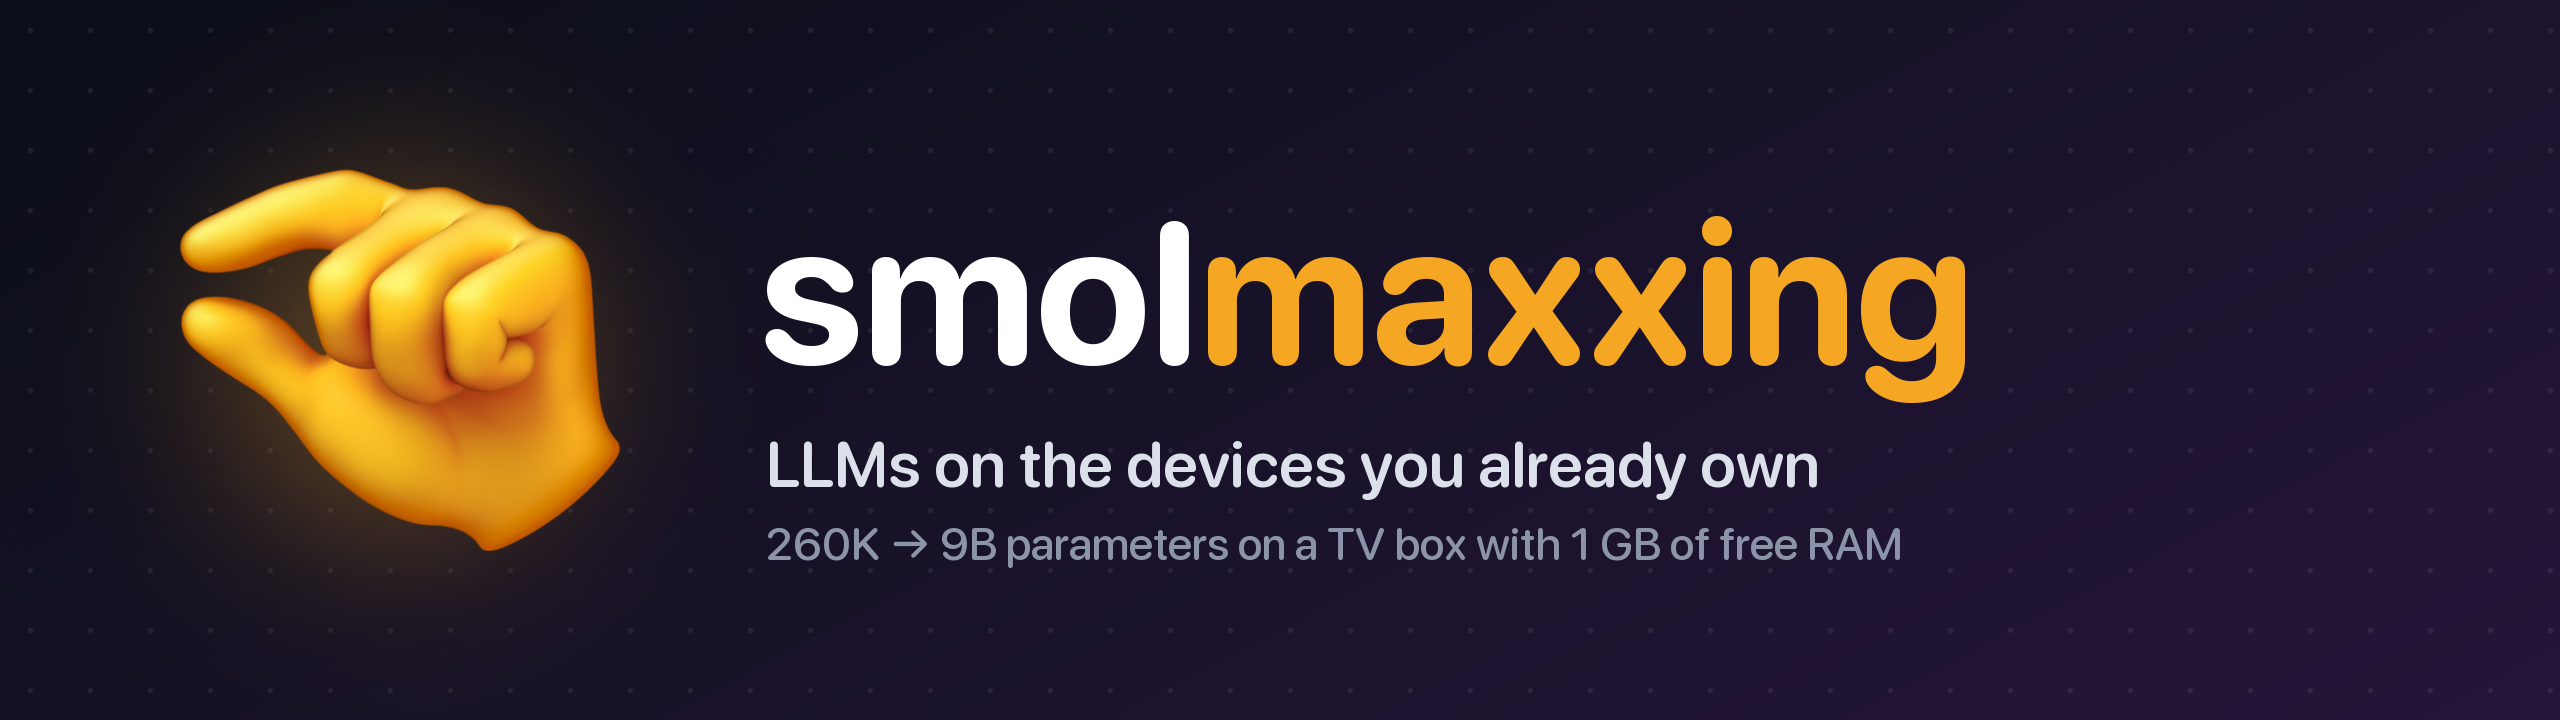
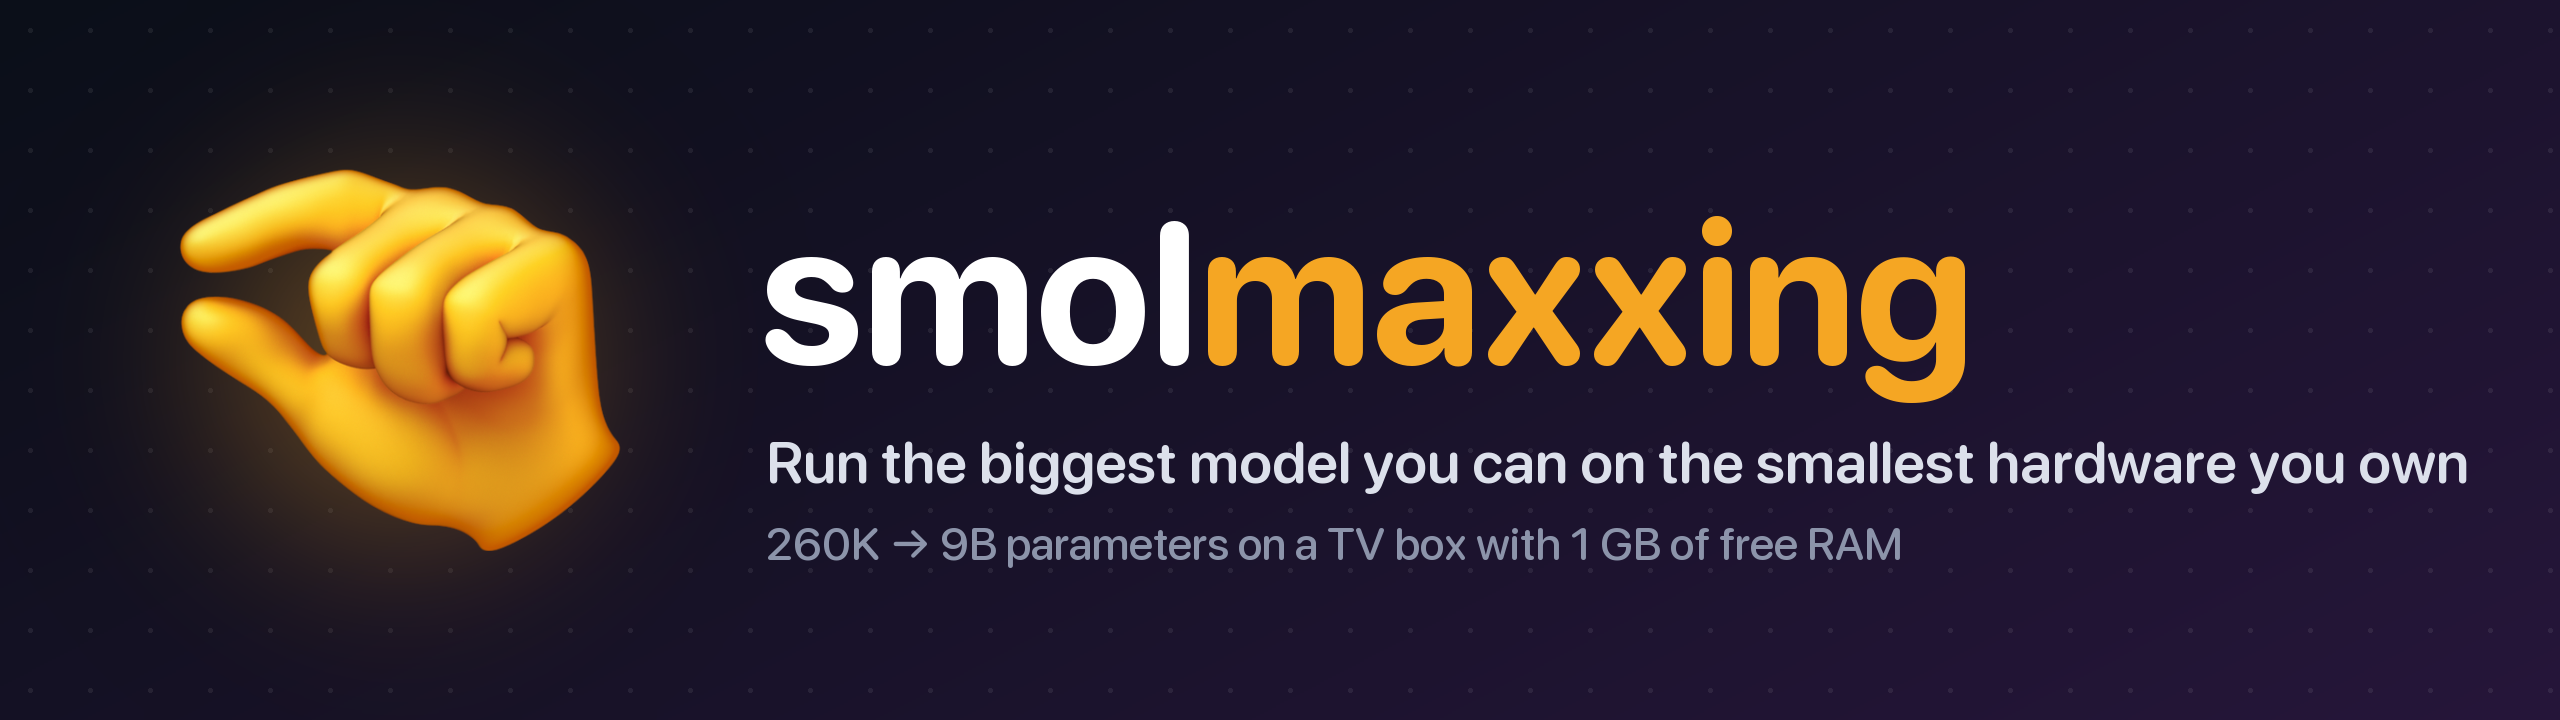
Header tagline: run the biggest model you can on the smallest hardware you own

Changed region(s): [[0.2812, 0.6111, 0.9688, 0.7028]]

diff --git a/README.md b/README.md
@@ -1,4 +1,4 @@
-<p align="center"><img src="assets/banner.png" alt="🤏 smolmaxxing: LLMs on the devices you already own" width="100%"></p>
+<p align="center"><img src="assets/banner.png" alt="🤏 smolmaxxing: run the biggest model you can on the smallest hardware you own" width="100%"></p>
 
 **How far can you push LLMs on a cheap Android TV box?** This repo runs language models from 260 K to 9 B parameters on a **Xiaomi TV Box S (3rd Gen)**: Amlogic S7D, 4× Cortex-A55 @ 2.5 GHz, **1.9 GB of RAM** (about 1 GB usable), eMMC flash, Android 14, no root. Everything here was measured on that box and is written up experiment by experiment in **[`EXPERIMENT.md`](EXPERIMENT.md)** (E1-E53).
 
